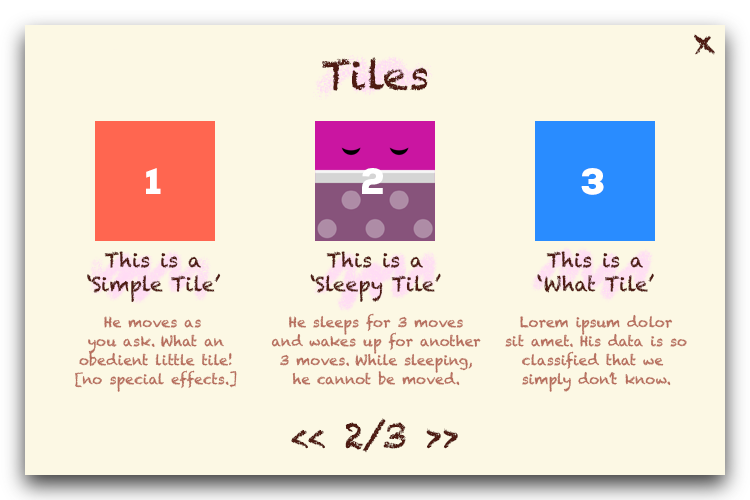
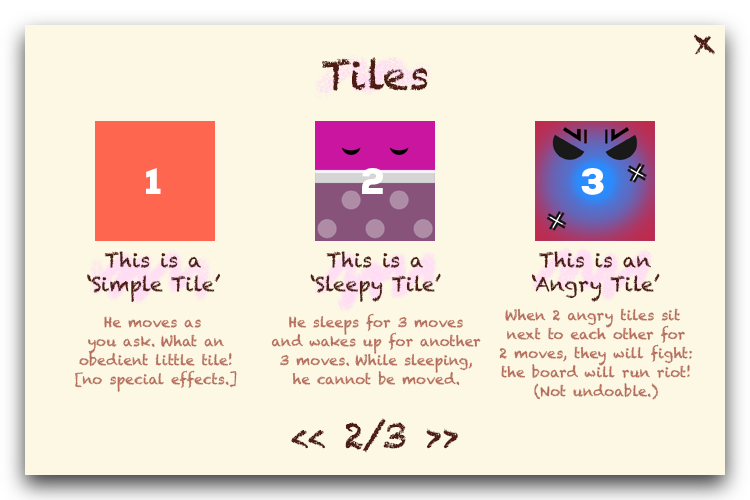
added animation for angrytile effect

Changed region(s): [[0.644, 0.24, 0.92, 0.81]]

diff --git a/src/logic/AngryTile.java b/src/logic/AngryTile.java
@@ -5,6 +5,8 @@ import java.awt.Graphics2D;
 import java.awt.Image;
 import java.awt.image.BufferedImage;
 
+import ui.GameAnimation;
+import lib.Config;
 import lib.DrawingUtility;
 import lib.Utility;
 
@@ -35,6 +37,21 @@ public class AngryTile extends Tile{
 			angriness = 0;
 		}
 		if(angriness >= MAX_ANGRINESS){
+			int cx = 0, cy = 0;
+			if(currentX < board.getBoardWidth() - 1 && board.getTileAt(currentX + 1, currentY) instanceof AngryTile){
+				cx = this.drawX + board.getTileSize() + Config.tileGutter / 2;
+				cy = this.drawY + board.getTileSize() / 2;
+			}else if(currentX > 0 && board.getTileAt(currentX - 1, currentY) instanceof AngryTile){
+				cx = this.drawX - Config.tileGutter / 2;
+				cy = this.drawY + board.getTileSize() / 2;
+			}else if(currentY < board.getBoardHeight() - 1 && board.getTileAt(currentX, currentY + 1) instanceof AngryTile){
+				cx = this.drawX + board.getTileSize() / 2;
+				cy = this.drawY + board.getTileSize() + Config.tileGutter / 2;
+			}else if(currentY > 0 && board.getTileAt(currentX, currentY - 1) instanceof AngryTile){
+				cx = this.drawX + board.getTileSize() / 2;
+				cy = this.drawY - Config.tileGutter / 2;
+			}
+			GameAnimation.fightAnim.playAt(cx, cy);
 			board.animatedShuffle(ANGRY_SHUFFLE);
 			angriness = 0;
 			//TODO set cannot undo??
@@ -43,12 +60,6 @@ public class AngryTile extends Tile{
 	
 	@Override
 	public void undoEffect() {
-//		currentLock--;
-//		if(currentLock < 0){
-//			isLocked = !isLocked;
-//			currentLock = 2;
-//		}
-		//TODO HOW DO I UNDO THIS ???
 	}
 	
 	@Override

diff --git a/src/ui/GameAnimation.java b/src/ui/GameAnimation.java
@@ -1,0 +1,57 @@
+package ui;
+
+import java.awt.Graphics;
+import java.awt.Graphics2D;
+import java.awt.image.BufferedImage;
+
+import lib.DrawingUtility;
+import logic.IUpdatable;
+
+public class GameAnimation implements IRenderable, IUpdatable {
+
+	private boolean isVisible = false;
+	private int currentFrame, frameCount;
+	private BufferedImage animationSprite;
+	int cx, cy;
+	
+	public static GameAnimation fightAnim = new GameAnimation(DrawingUtility.fightSprite, 8);
+	
+	public GameAnimation(BufferedImage sprite, int frameCount){
+		this.animationSprite = sprite;
+		this.frameCount = frameCount;
+	}
+	
+	public void playAt(int cx, int cy){
+		isVisible = true;
+		currentFrame = -1;
+		this.cx = cx;
+		this.cy = cy;
+	}
+	
+	@Override
+	public void update() {
+		if(isVisible){
+			currentFrame++;
+			if(currentFrame >= frameCount * 2){
+				isVisible = false;
+			}
+		}
+	}
+
+	@Override
+	public int getZ() {
+		return 30000;
+	}
+
+	@Override
+	public void draw(Graphics g) {
+		if(isVisible){
+			Graphics2D g2 = (Graphics2D) g;
+			int x = cx - animationSprite.getWidth() / frameCount / 2;
+			int y = cy - animationSprite.getHeight() / 2;
+			System.out.println(currentFrame + "/" + frameCount);
+			g2.drawImage(DrawingUtility.getFrame(animationSprite, currentFrame/2, frameCount), null, x, y);
+		}
+	}
+
+}

diff --git a/src/lib/DrawingUtility.java b/src/lib/DrawingUtility.java
@@ -44,6 +44,7 @@ public class DrawingUtility {
 	public static final BufferedImage sleepyTileImg = loadImage("res/img/sleepyTile.png");
 	public static final BufferedImage angryTileImg = loadImage("res/img/angryTile.png");
 	public static final BufferedImage correctImg = loadImage("res/img/correct.png");
+	public static final BufferedImage fightSprite = loadImage("res/img/boomSprite.png");
 	
 	public static BufferedImage loadImage(String directory){
 		try {

diff --git a/src/logic/GameLogic.java b/src/logic/GameLogic.java
@@ -8,6 +8,7 @@ import lib.InputUtility;
 import control.Game;
 import control.ScreenState;
 import ui.Clickable;
+import ui.GameAnimation;
 import ui.HelpPanel;
 import ui.gamebutton.*;
 import ui.winpanel.WinPanel;
@@ -20,6 +21,8 @@ public class GameLogic{
 		updateList.add(b);
 		updateList.addAll(Clickable.buttons);
 		updateList.add(HelpPanel.helpPanel);
+		updateList.add(GameAnimation.fightAnim);
+		
 //		updateList.addAll(WinPanel.winElements);
 	}
 	

diff --git a/src/ui/GameScreen.java b/src/ui/GameScreen.java
@@ -43,6 +43,7 @@ public class GameScreen extends JPanel{
 		renderList.addAll(WinPanel.winElements);
 		renderList.addAll(Clickable.buttons);
 		renderList.add(HelpPanel.helpPanel);
+		renderList.add(GameAnimation.fightAnim);
 		
 		this.setDoubleBuffered(true);
 		this.setFocusable(true);

diff --git a/src/control/GameLogicThread.java b/src/control/GameLogicThread.java
@@ -18,7 +18,7 @@ public class GameLogicThread implements Runnable {
 		while(ScreenState.presentScreen == ScreenState.GAME){
 			monitor.updateLogic();
 			try{
-				Thread.sleep(12);
+				Thread.sleep(15);
 			} catch (InterruptedException e) {
 			}
 		}

diff --git a/src/logic/Board.java b/src/logic/Board.java
@@ -16,6 +16,7 @@ import javax.rmi.CORBA.Util;
 import javax.swing.JOptionPane;
 
 import ui.Clickable;
+import ui.GameAnimation;
 import ui.GameScreen;
 import ui.HelpPanel;
 import ui.IRenderable;
